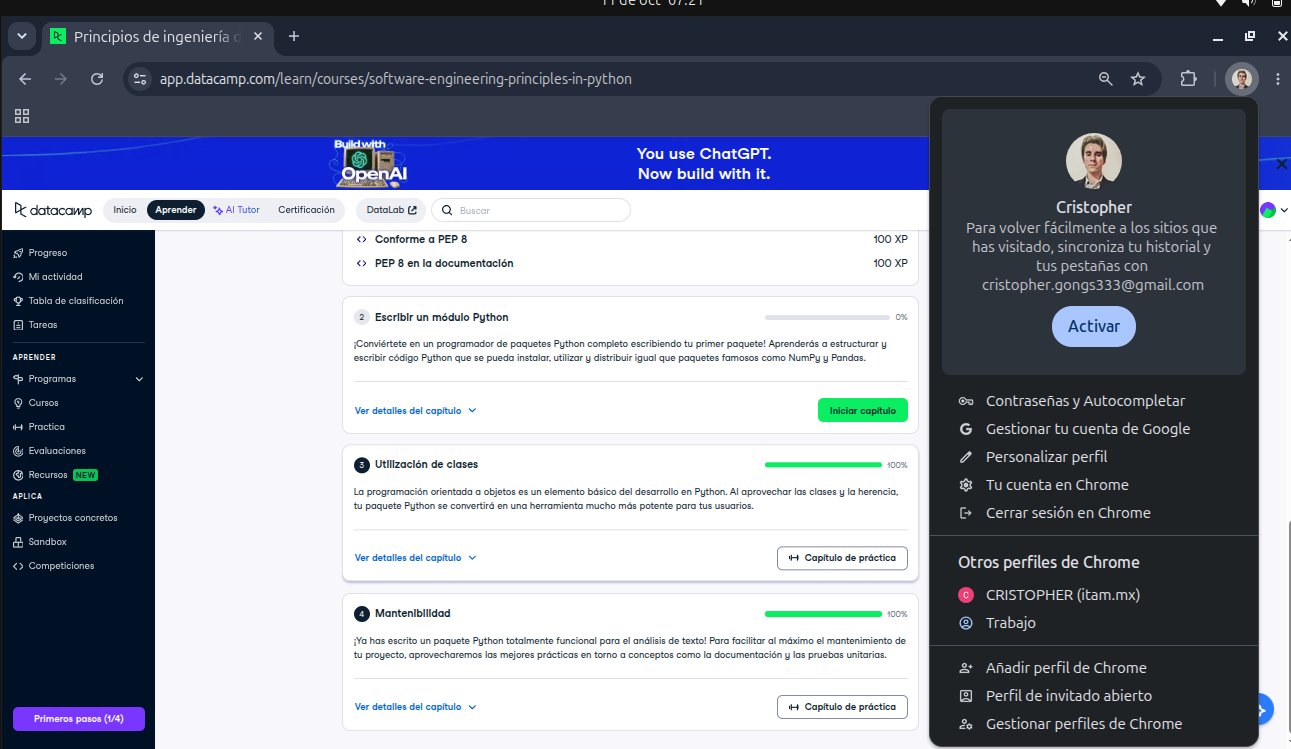
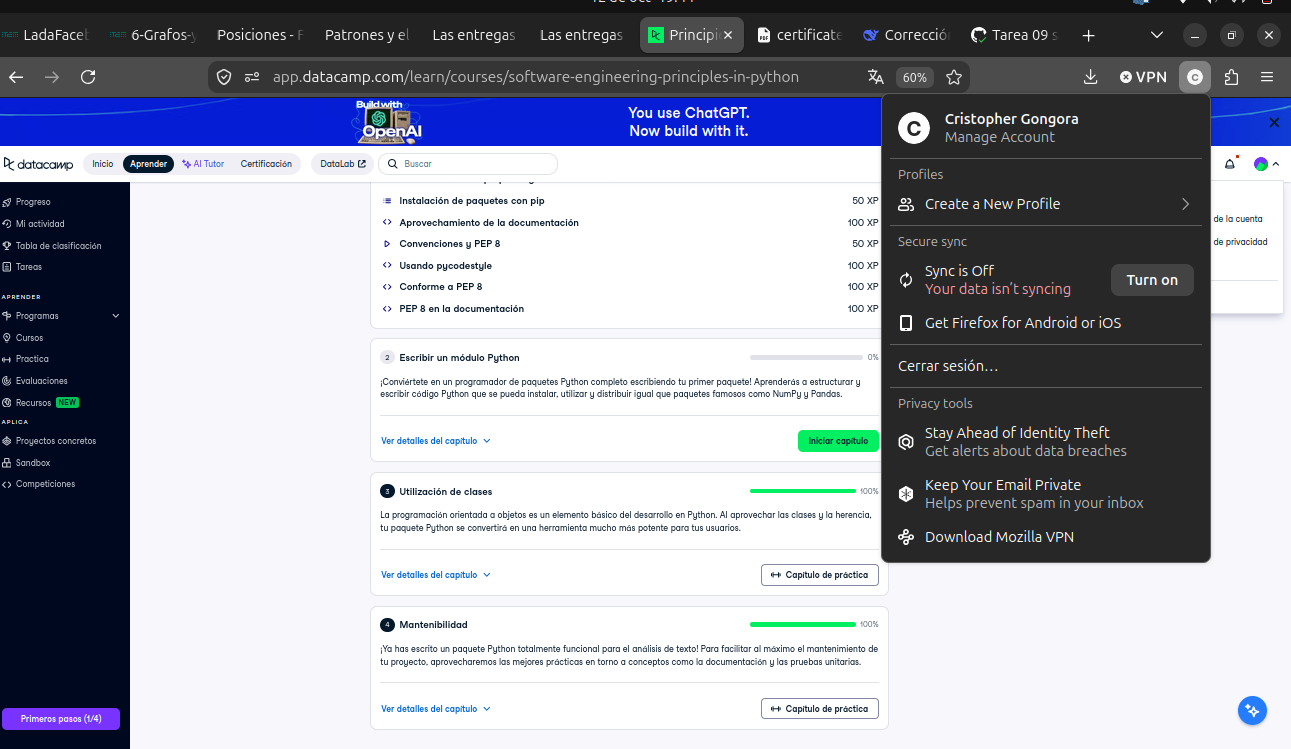
Cambio en foto y decisiones.md

diff --git a/estudiantes/cristoredentor/09_python/stack/decisiones.md b/estudiantes/cristoredentor/09_python/stack/decisiones.md
@@ -7,10 +7,9 @@ el stack escrito».
 
 | Qué cambié | Por qué | Qué patrón |
 |---|---|---|
-|Puse documentación a los métodos|Para ayudar al mantenimiento del código| |
-|Cambie pandas por polars|Como vimos en clase polars tiene muchas ventajas sobre pandas|Fuera del intérprete es rápido|
-|`.apply(lambda ...)` → `pl.col("cantidad") * pl.col("precio")`|`.apply` recorre fila por fila en Python; la expresión opera la columna completa|Fila vs columna|
-|`cantidad: Optional[int]` → `int` con `Field(gt=0)`|Con `None` permitido, pandas vuelve la columna `float`|El tipo decide la memoria|
+| Cambié pandas por Polars | pandas guarda tienda y producto como object, un objeto de Python por celda; Polars los guarda como str en Arrow, en un solo bloque de memoria | El tipo decide la memoria |
+| Cambié el .apply con lambda por una expresión de Polars que multiplica la columna cantidad por la columna precio | .apply llama una función de Python en cada fila; la expresión multiplica la columna entera en Rust | Fuera del intérprete es rápido |
+| Cambié el @validator y el Optional[int] por cantidad: int = Field(gt=0) | El validador es una función de Python que corre en cada fila; gt=0 lo revisa el núcleo de Pydantic en Rust. Además @validator, class Config y .dict() son de Pydantic v1 y desaparecen en v3 | Fuera del intérprete es rápido |
 
 ## Salida de pytest
 
